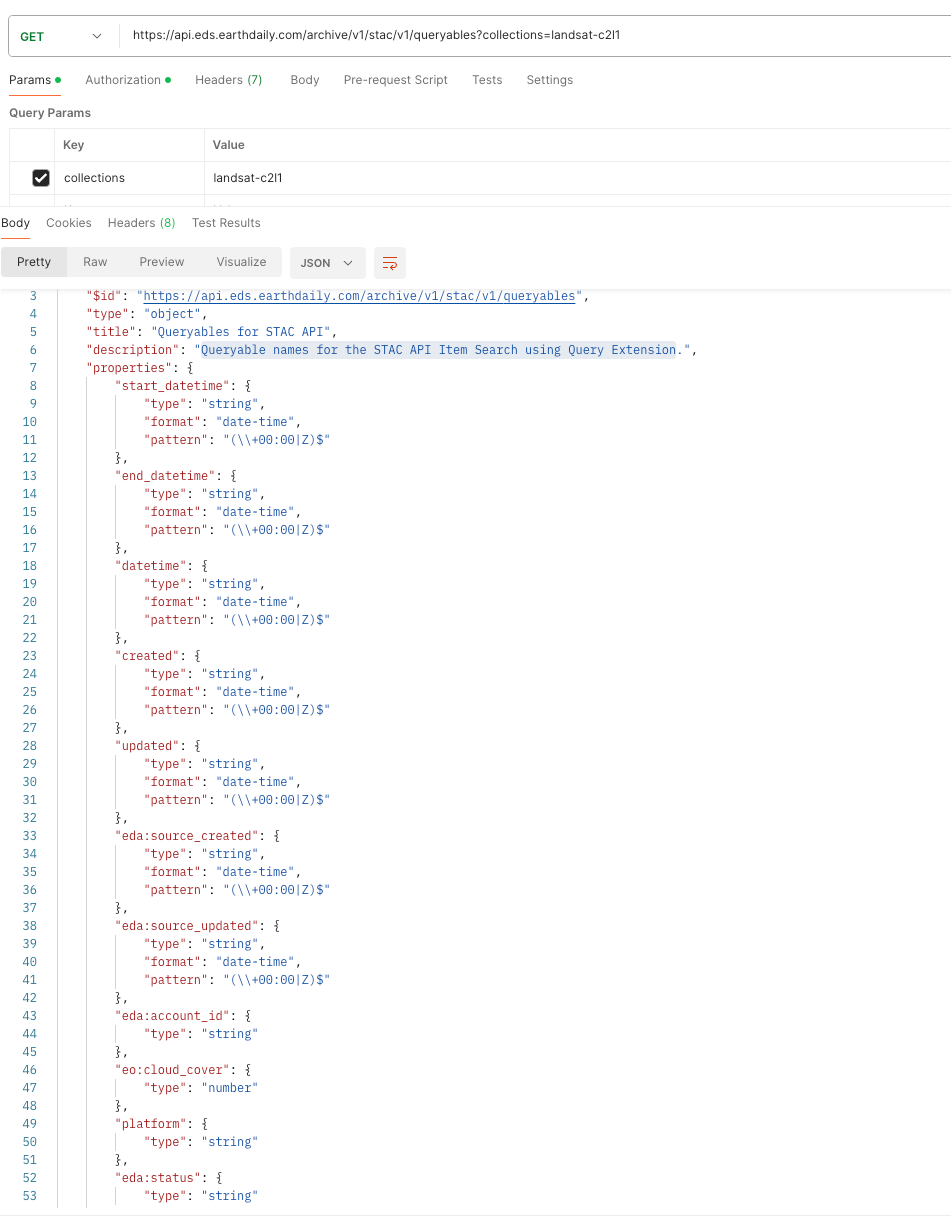
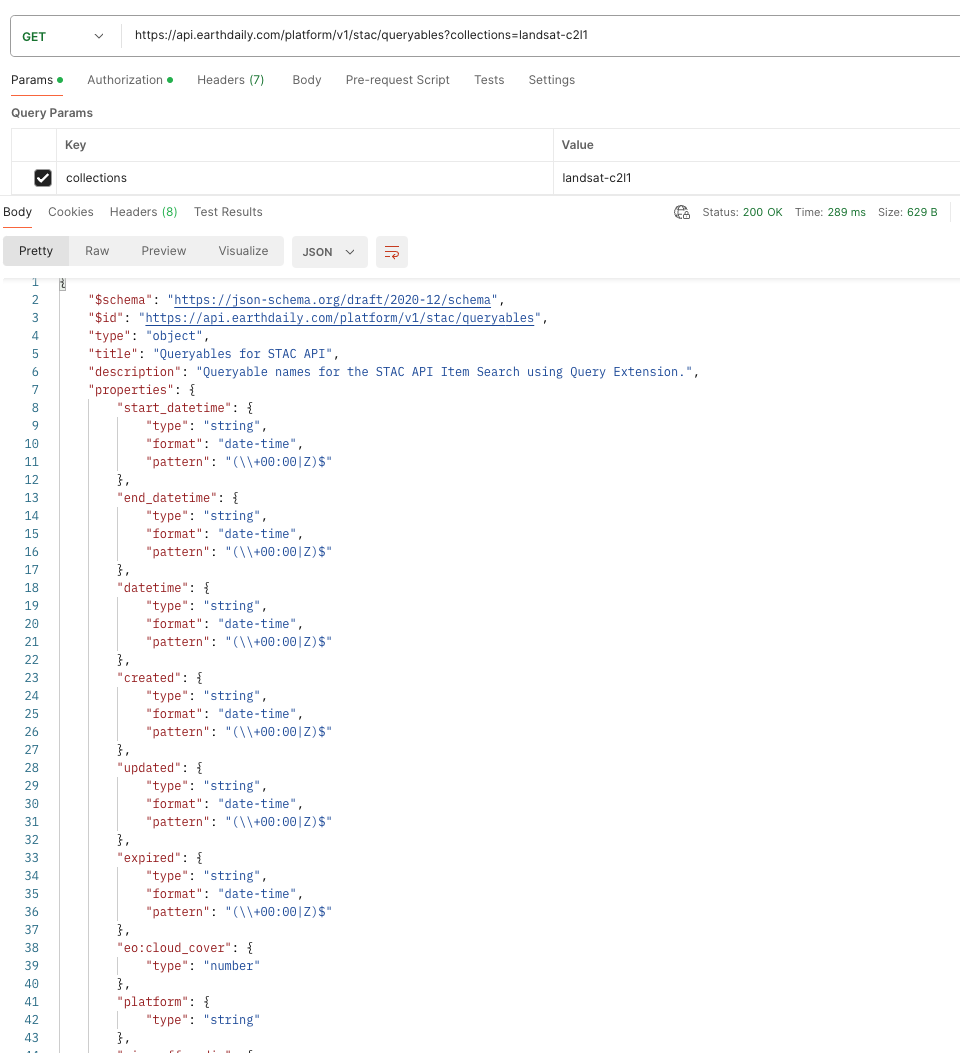
Changes for URL

diff --git a/API/APIUsage/Endpoints.md b/API/APIUsage/Endpoints.md
@@ -144,7 +144,7 @@ https://api.earthdaily.com/platform/v1/stac/search?datetime=2023-01-01T18:50:42.
 
 Shows use of datetime, collections and intersects, query remains same as GET
 ```
-https://api.eds.earthdaily.com/archive/v1/stac/search?datetime=2023-01-01T18:50:42.000000Z/2023-02-01T18:50:42.000000Z&bbox=-1.757813,51.971346,-0.065918,52.589701&collections=sentinel-2-l1c,sentinel-2-l2a
+https://api.earthdaily.com/platform/v1/stac/search?datetime=2023-01-01T18:50:42.000000Z/2023-02-01T18:50:42.000000Z&bbox=-1.757813,51.971346,-0.065918,52.589701&collections=sentinel-2-l1c,sentinel-2-l2a
 ```
 **Example** : [Command Line](CommandLine.md#search) | [Postman](Postman.md#search) | [Python](Python.md#search)
 
